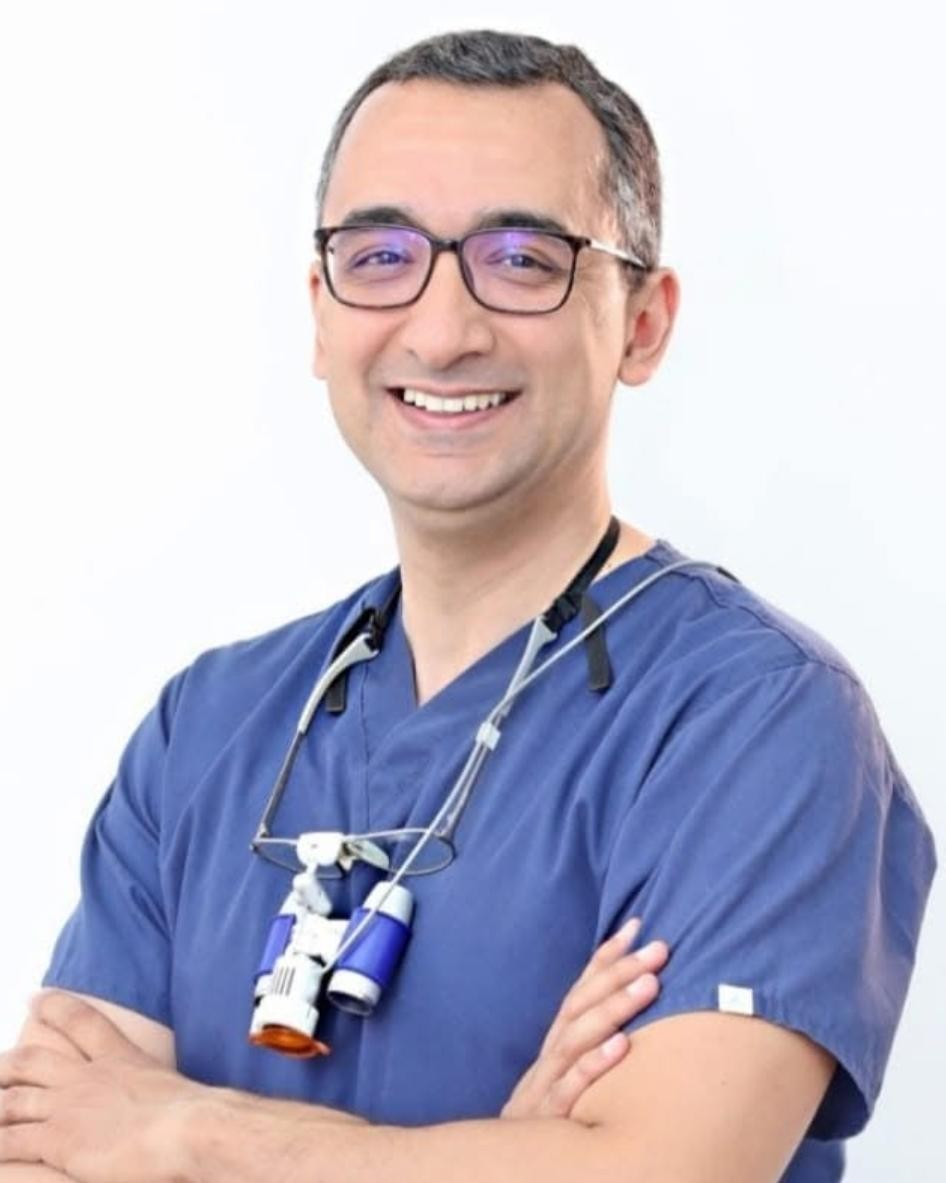
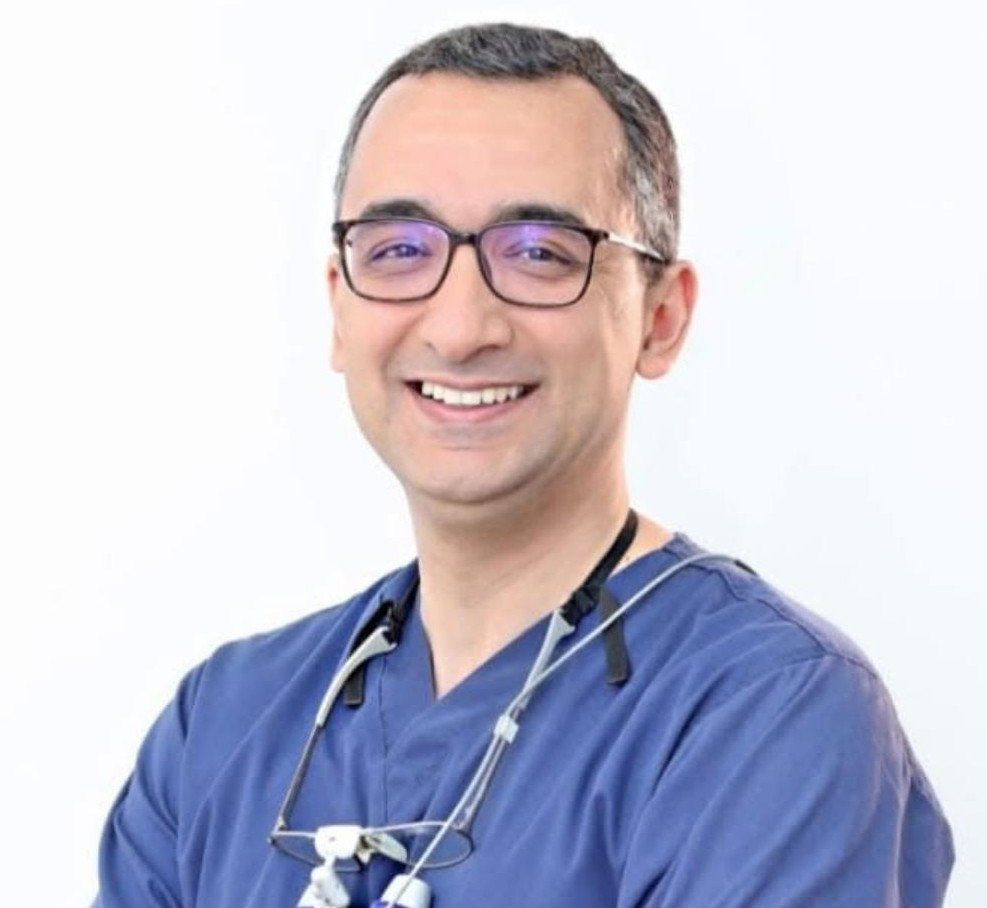
home

diff --git a/config/pages/home.html b/config/pages/home.html
@@ -19,118 +19,111 @@
 </head>
 <body>
 
-    <section class="first">
-        <div class="container-fluid">
-            <div class="row">
-                <div class="col-lg-6 col-md-6 col-sm-12 d-flex flex-column justify-content-center">
-                    <div class="header1">
-                        <h1>Our Healthcare Solutions Meet Every Need</h1>
-                        <br>
-                        <p class="intro-text" style="font-size: large;">
-                            Welcome to our center, where compassionate care meets cutting-edge medical technology. Our dedicated team of healthcare professionals is committed to providing personalized and high-quality services to ensure the well-being of you and your loved ones. We are here to support you through every step of your healthcare journey. Trust us to be your partner in health.
-                        </p>
-                        <button class="btn">Learn More</button>
-                    </div>
-                </div>
-                <div class="col-lg-6 col-md-6 col-sm-12 d-flex justify-content-end">
-                    <img src="../images/homeP.jpg" class="img-fluid" alt="Healthcare Image">
+  <section class="first pb-5">
+    <div class="container">
+        <div class="row align-items-center flex-column-reverse flex-md-row">
+            <div class="col-lg-6 col-md-6 col-sm-12 text-center text-md-start">
+                <div class="header1">
+                    <h1>Our Healthcare Solutions Meet Every Need</h1>
+                    <p class="intro-text fs-5">
+                      Welcome to our center, where compassionate care meets cutting-edge medical technology. Our dedicated team of healthcare professionals is committed to providing personalized and high-quality services to ensure the well-being of you and your loved ones. We are here to support you through every step of your healthcare journey. Trust us to be your partner in health..
+                    </p>
+                    <button class="btn btn-primary">Learn More</button>
                 </div>
             </div>
-    
-            <div class="row mt-4">
-                <div class="col-12 d-flex" style="margin: 50px; gap: 30px;">
-                    <div class="p-2" style="font-weight: bold; font-size: xx-large;">400+ <br> <span class="value">Expert Doctors</span></div>
-                    <div class="p-2" style="font-weight: bold; font-size: xx-large;">500+ <br> <span class="value">Recovered Patients</span></div>
-                    <div class="p-2" style="font-weight: bold; font-size: xx-large;">97% <br> <span class="value">Satisfied Rate</span></div>
-                </div>
+            <div class="col-lg-6 col-md-6 col-sm-12 d-flex justify-content-center">
+                <img src="../images/homeP.jpg" class="img-fluid" alt="Healthcare Image" style="max-width: 100%; height: auto;">
             </div>
-        </div> 
-    </section>
-    
-    <section class="doctors">
-        <div id="carouselExampleCaptions" class="carousel slide">
+        </div>
+
+        <div class="row mt-4 justify-content-center text-center">
+            <div class="col-12 d-flex flex-wrap justify-content-center gap-4">
+                <div class="p-2 fw-bold fs-3">400+ <br> <span class="value">Expert Doctors</span></div>
+                <div class="p-2 fw-bold fs-3">500+ <br> <span class="value">Recovered Patients</span></div>
+                <div class="p-2 fw-bold fs-3">97% <br> <span class="value">Satisfied Rate</span></div>
+            </div>
+        </div>
+    </div> 
+</section>
+
+
+<section class="doctors">
+    <div class="container">
+        <div id="carouselExampleCaptions" class="carousel slide" data-bs-ride="carousel">
             <div class="carousel-indicators">
-              <button type="button" data-bs-target="#carouselExampleCaptions" data-bs-slide-to="0" class="active" aria-current="true" aria-label="Slide 1"></button>
-              <button type="button" data-bs-target="#carouselExampleCaptions" data-bs-slide-to="1" aria-label="Slide 2"></button>
-              <button type="button" data-bs-target="#carouselExampleCaptions" data-bs-slide-to="2" aria-label="Slide 3"></button>
+                <button type="button" data-bs-target="#carouselExampleCaptions" data-bs-slide-to="0" class="active"></button>
+                <button type="button" data-bs-target="#carouselExampleCaptions" data-bs-slide-to="1"></button>
+                <button type="button" data-bs-target="#carouselExampleCaptions" data-bs-slide-to="2"></button>
             </div>
             <div class="carousel-inner">
-              <div class="carousel-item active">
-                
-                <img src="../images/mohamedAlem.jpg" class="d-block w-100" alt="...">
-                <div class="carousel-caption d-none d-md-block">
-                  <h5>Dr. Mohamed Alem</h5>
-                  <p>4.98</p>
+                <div class="carousel-item active">
+                    <img src="../images/mohamedAlem.jpg" class="d-block w-100" alt="Doctor Image" style="max-height: 600px; object-fit: cover;">
+                    <div class="carousel-caption d-none d-md-block">
+                        <h5>Dr. Mohamed Alem</h5>
+                        <p>Specialist Consultant</p>
+                    </div>
                 </div>
-              </div>
-              <div class="carousel-item">
-                <img src="../images/KBakeer.jpg" class="d-block w-100" alt="...">
-                <div class="carousel-caption d-none d-md-block">
-                  <h5>Dr. Kamal Bakeer </h5>
-                  <p>4.93</p>
+                <div class="carousel-item">
+                    <img src="../images/KBakeer.jpg" class="d-block w-100" alt="Doctor Image" style="max-height: 600px; object-fit: cover;">
+                    <div class="carousel-caption d-none d-md-block">
+                        <h5>Dr. Kamal Bakeer</h5>
+                        <p>Senior Consultant</p>
+                    </div>
                 </div>
-              </div>
-              <div class="carousel-item">
-                <img src="../images/karimFawzy.jpg" class="d-block w-100" alt="...">
-                <div class="carousel-caption d-none d-md-block">
-                  <h5>Dr. Karim Fawzy</h5>
-                  <p>4..89</p>
+                <div class="carousel-item">
+                    <img src="../images/karimFawzy.jpg" class="d-block w-100" alt="Doctor Image" style="max-height: 600px; object-fit: cover;">
+                    <div class="carousel-caption d-none d-md-block">
+                        <h5>Dr. Karim Fawzy</h5>
+                        <p>Resident</p>
+                    </div>
                 </div>
-              </div>
             </div>
             <button class="carousel-control-prev" type="button" data-bs-target="#carouselExampleCaptions" data-bs-slide="prev">
-              <span class="carousel-control-prev-icon" aria-hidden="true"></span>
-              <span class="visually-hidden">Previous</span>
+                <span class="carousel-control-prev-icon" aria-hidden="true"></span>
             </button>
             <button class="carousel-control-next" type="button" data-bs-target="#carouselExampleCaptions" data-bs-slide="next">
-              <span class="carousel-control-next-icon" aria-hidden="true"></span>
-              <span class="visually-hidden">Next</span>
+                <span class="carousel-control-next-icon" aria-hidden="true"></span>
             </button>
-          </div>
-          
-          
-    </section>
+        </div>
+    </div>
+</section>
 
-    <section class="reviews">
 
-        <div class="container text-center justify-content-center align-items-center" style="text-align: center; align-items: center;">
-            
-            <div class="row">
-              <div class="col">
-                <div class="card" style="width: 18rem;">
-                    <img src="../images/rev1.jpg" class="card-img-top" alt="...">
-                    <div class="card-body">
+
+<section class="reviews">
+  <div class="container text-center">
+      <div class="row justify-content-center">
+          <div class="col-lg-4 col-md-6 col-sm-12 mb-4">
+              <div class="card" style="width: 100%;">
+                  <img src="../images/rev1.jpg" class="card-img-top" alt="...">
+                  <div class="card-body">
                       <h5 class="card-title">Review 1</h5>
                       <p class="card-text">I had an amazing experience at this dental center! From the moment I walked in, the staff was friendly and welcoming. The dentist was very professional and took the time to explain every step of my treatment. The office is clean, modern, and comfortable. I left feeling confident in the care I received. Highly recommend!</p>
-                      
-                    </div>
                   </div>
               </div>
-              <div class="col">
-                <div class="card" style="width: 18rem;">
-                    <img src="../images/rev2.jpg" class="card-img-top" alt="...">
-                    <div class="card-body">
+          </div>
+          <div class="col-lg-4 col-md-6 col-sm-12 mb-4">
+              <div class="card" style="width: 100%;">
+                  <img src="../images/rev2.jpg" class="card-img-top" alt="...">
+                  <div class="card-body">
                       <h5 class="card-title">Review 2</h5>
                       <p class="card-text">I’ve always been nervous about going to the dentist, but this place made me feel completely at ease. The team is kind and patient, and they genuinely care about your comfort. They helped me with a routine cleaning and gave me great tips on oral care. I’m so happy I found this dental center. I’ll definitely be coming back!</p>
-                     
-                    </div>
                   </div>
               </div>
-              <div class="col">
-                <div class="card" style="width: 18rem;">
-                    <img src="../images/rev3.jpg" class="card-img-top" alt="...">
-                    <div class="card-body">
+          </div>
+          <div class="col-lg-4 col-md-6 col-sm-12 mb-4">
+              <div class="card" style="width: 100%;">
+                  <img src="../images/rev3.jpg" class="card-img-top" alt="...">
+                  <div class="card-body">
                       <h5 class="card-title">Review 3</h5>
                       <p class="card-text">Excellent service! I had a tooth extraction done here, and the procedure was smooth and virtually pain-free. The dentist was very gentle and made sure I was comfortable throughout the entire process. The follow-up care was also fantastic. I’m very pleased with the results and will be returning for future visits!</p>
-                
-                    </div>
                   </div>
               </div>
-            </div>
           </div>
+      </div>
+  </div>
+</section>
 
-    </section>
-    
     <section class="feedback">
         <div class="container-fluid">
             <div class="row" style="height: 700px;">
@@ -141,7 +134,7 @@
     
                 
                 <div class="col-lg-6 col-md-6 col-sm-12 d-flex align-items-center">
-                    <form action="" style="padding: 30px; width: 100%; border-radius: 10px; background-color: rgb(216, 213, 202); box-shadow: 0 0 10px rgba(0, 0, 0, 0.1);">
+                    <form action="" style="padding: 30px; width: 90%; border-radius: 10px; background-color: rgb(216, 213, 202); box-shadow: 0 0 10px rgba(0, 0, 0, 0.1);">
                         <h2 style="font-size: 3rem;">FeedBack</h2>
                         <label for="Email">Email</label>
                         <br>

diff --git a/config/styles/homeStyle.css b/config/styles/homeStyle.css
@@ -3,8 +3,10 @@
     font-family: 'Josefin Sans',sans-serif;
 }
 
+
+
 .first{
-    height: 900px;
+    
     background-color: white;
 }
 
@@ -73,6 +75,14 @@
     font-size: medium;
 }
 
+.doctors {
+   
+    padding-top: 50px;
+    padding-bottom: 50px;
+   
+}
+
+
 #carouselExampleCaptions {
     max-width: 700px;
     margin: 0 auto; 
@@ -100,6 +110,17 @@
 
 .feedback{
     background-color: rgb(216, 213, 202);
-    height: 700px;
+    
 }
 
+@media (max-width: 768px) {
+   
+    .feedback form {
+        max-width: 100% !important;
+        width: 100% !important;
+        padding: 40px !important;
+        margin: 30px !important;
+        border-radius: 0 !important;
+    }
+
+}
